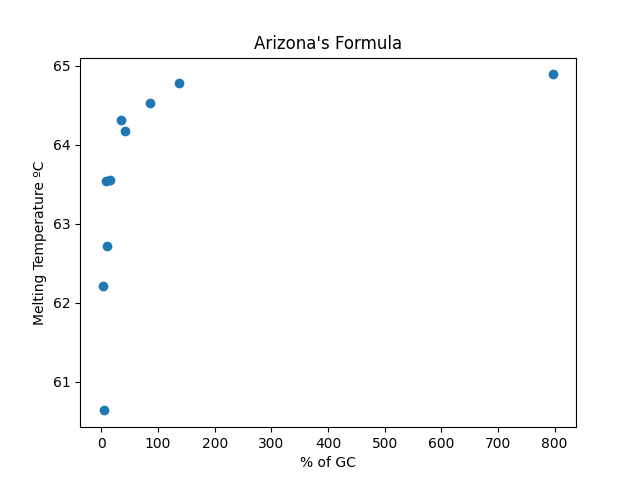
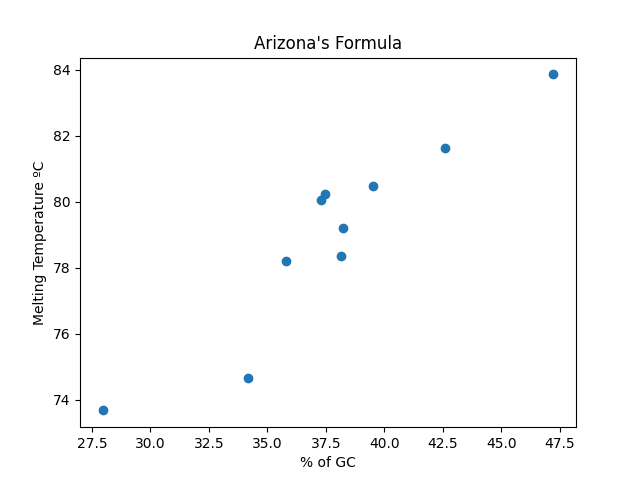
Correção do cálculo da temperatura de melting

diff --git a/atividade3/atividade3.py b/atividade3/atividade3.py
@@ -56,7 +56,13 @@ for file in files:
             exit_file.writelines('C: {}\n'.format(sequence.count("C")))
             exit_file.writelines('G: {}\n'.format(sequence.count("G")))
             exit_file.writelines('T: {}\n'.format(sequence.count("T")))
-            exit_file.writelines('Amount of GC: {}\n'.format(sequence.count("GC")))
+
+            # Calculating the percentage of GC
+            amount_of_GC = sequence.count("C") + sequence.count("G")
+            percentage_of_GC = (amount_of_GC/amount_of_nucleotides)*100
+
+            exit_file.writelines('Amount of GC: {}\n'.format(amount_of_GC))
+            exit_file.writelines('% of GC: {}%\n'.format('%0.2f' % percentage_of_GC))
             exit_file.writelines('\nMelting Temperature Values\n')
 
             # Calculating Melting Temperature
@@ -65,8 +71,7 @@ for file in files:
             exit_file.writelines('Tm_NN: {}\n'.format('%0.2f' % mt.Tm_NN(sequence)))
 
             # From University of Arizona Formula
-            amount_of_GC = sequence.count("GC")
-            tm = 64.9 + 0.41*(amount_of_GC/amount_of_nucleotides) - (500/amount_of_nucleotides)
+            tm = 64.9 + 0.41*percentage_of_GC - (500/amount_of_nucleotides)
             exit_file.writelines('Arizona\'s: {}\n'.format('%0.2f' % tm))
             exit_file.writelines('\n')
 
@@ -75,7 +80,7 @@ for file in files:
             TMwallace_values.append(mt.Tm_Wallace(sequence))
             TMGC_values.append(mt.Tm_GC(sequence))
             TMNN_values.append(mt.Tm_NN(sequence))
-            GC_values.append(amount_of_GC)
+            GC_values.append(percentage_of_GC)
 
 exit_file.close()
 
